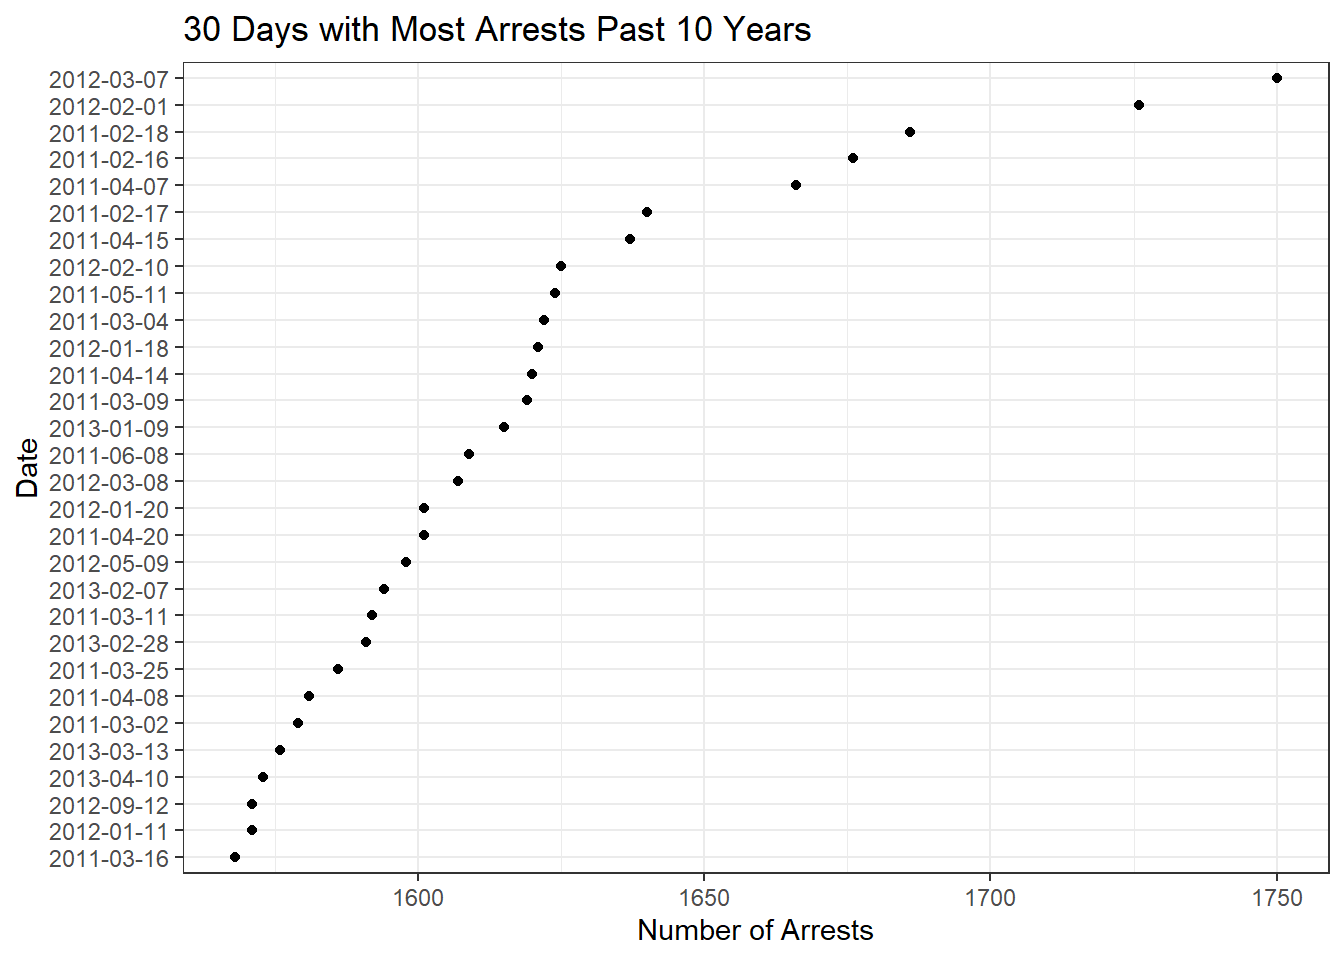
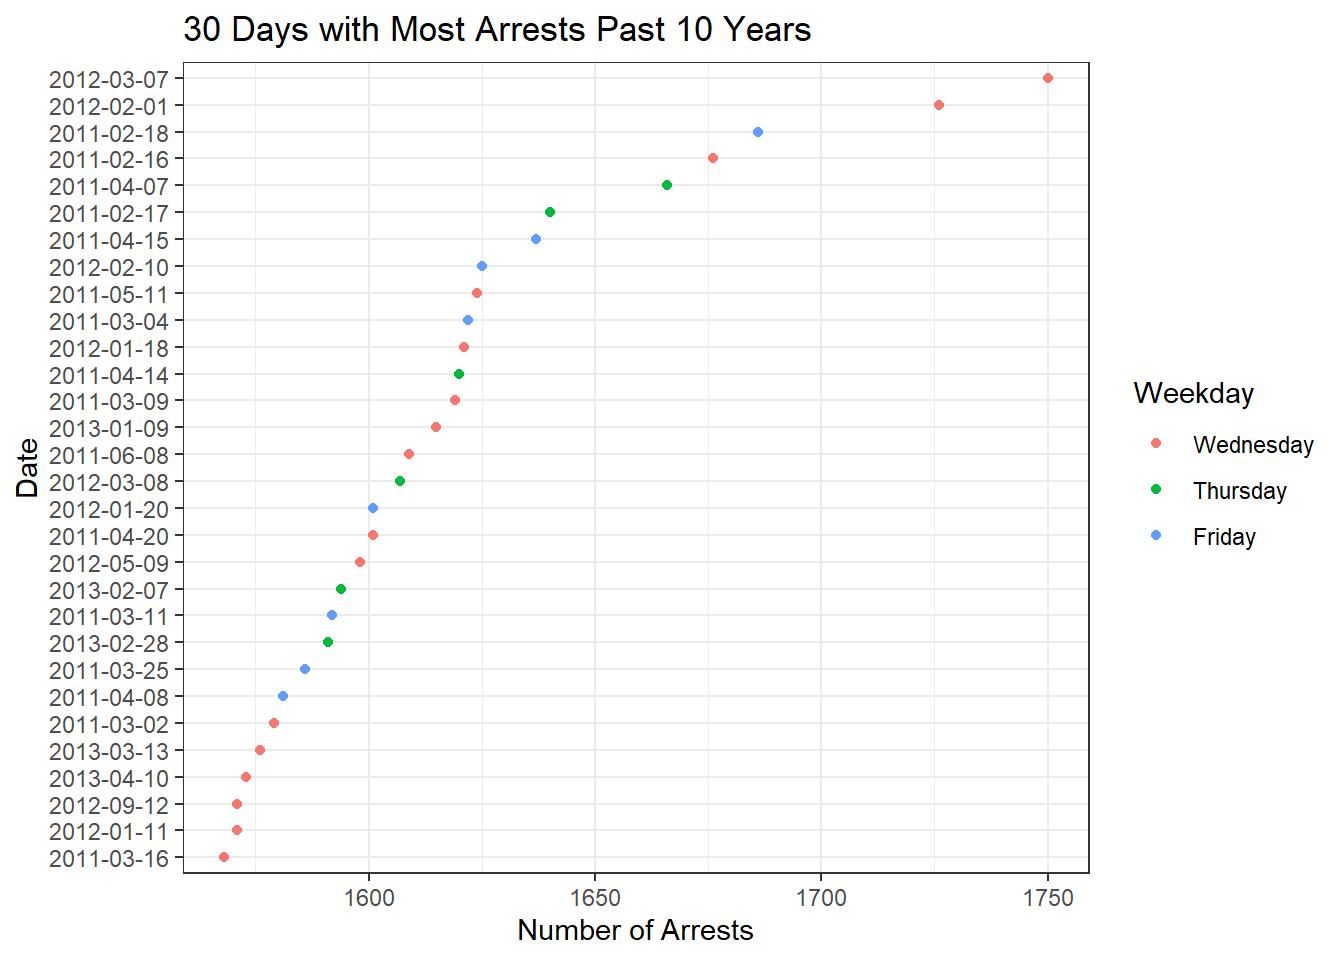
Added weekdays to Cleveland plot, made some notes in discussion sections. Reordered legend in marijuana plot.

diff --git a/docs/results.html b/docs/results.html
@@ -203,10 +203,10 @@ code span.wa { color: #60a0b0; font-weight: bold; font-style: italic; } /* Warni
 <p>One small pattern that we can see from this plot is that the number of arrests seems to drop off a little in December, with December 2014 being the most extreme example. The reasoning for this drop off is unclear, but it could potentially be related to the holiday season. It will be interesting to compare to the number of crimes in December to see if people commit fewer crimes at the end of the year. Another aspect of this plot that we found interesting is that the number of arrests really drops off in 2020 once COVID hit. April, June, and July all had very low arrest totals and this was likely due to the fact that most people were quarantining and not going out much.</p>
 <p>We also wanted to look at individual days to see if there may be a reason certain days had such levels of crime. We created a Cleveland dot plot to look at the 30 days with the highest arrest totals in the past 10 years.</p>
 <p><img src="finalproj_files/figure-html/unnamed-chunk-6-1.png" width="672" /></p>
-<p>From the plot above, we see that the most arrests in one day over the past 10 years was 1750 on March 7th, 2012. There doesn’t seem to be anything in particular that explains why there were so many arrests on this day since it was a random Wednesday in March. This was one of two days with more than 1700 arrests with the other being February 1st, 2012 which also happened to be a Wednesday. It is also interesting to see that all of these days were either in 2011, 2012, or 2013. This makes sense given what the bar plot above showed us in terms of arrests by year, but it is still interesting to see that there were no days recently that made it in the top 30. When looking at the days on this list, we also noticed that most of these days occurred earlier in the year. Only one of the 30 days occurred in the second half of the year which seems a bit odd considering that there wasn’t a huge difference between the number of arrests by month. It would be interesting to see if this pattern continued for the top 50 or 100 days in terms of most arrests, and if there is a potential explanation for why this is the case.</p>
+<p>From the plot above, we see that the most arrests in one day over the past 10 years was 1750 on March 7th, 2012. There doesn’t seem to be anything in particular that explains why there were so many arrests on this day since it was a seemingly ordinary Wednesday in March. This was one of two days with more than 1700 arrests, with the other being February 1st, 2012 which also happened to be a Wednesday. It is also interesting to see that all of these days were either in 2011, 2012, or 2013. This makes sense given what the bar plot above showed us in terms of arrests by year, but it is still interesting to see that there were no days recently that made it in the top 30. When looking at the days on this list, we also noticed that most of these days occurred earlier in the year. Only one of the 30 days occurred in the second half of the year which seems a bit odd considering that there wasn’t a huge difference between the number of arrests by month. It would be interesting to see if this pattern continued for the top 50 or 100 days in terms of most arrests, and if there is a potential explanation for why this is the case. Another interesting point is the weekdays on which the most arrests occurred. As we can see, all of the top days were Wednesdays, Thursdays, and Fridays. It may be argued that Weekends typically see less activity, as they may see fewer people commuting into the city. It is quite curious, though, that Mondays and Tuesdays are under-represented.</p>
 <p>We also want to look at the types of arrests that are occurring in New York City. The three types of arrests according to the data dictionary are felonies, misdemeanors, and violations. A bar plot showing how common each arrest type has been over the past 10 years is below.</p>
 <p><img src="finalproj_files/figure-html/unnamed-chunk-7-1.png" width="672" /></p>
-<p>From the bar plot above, we can see that misdemeanor is the most common type of arrest in our dataset with over 2 million arrests that were related to misdemeanor charges. Felony is the next most common type of arrest with just under 1 million arrests while violations only account for around 200,000 arrests. There is also a small portion of arrests classified as <code>I</code>, but it is not exactly clear from the data dictionary what that stands for. There were also a small amount of arrests that did not have a <code>LAW_CAT_CD</code>, so these were categorized as <code>NA</code> in our plot.</p>
+<p>From the bar plot above, we can see that misdemeanor is the most common type of arrest in our dataset with over 2 million arrests that were related to misdemeanor charges. Felony is the next most common type of arrest with just under 1 million arrests while violations only account for around 200,000 arrests. There is also a small portion of arrests classified as <code>I</code>, which denotes infractions. There were also a small amount of arrests that did not have a <code>LAW_CAT_CD</code>, so these were categorized as <code>NA</code> in our plot.</p>
 <p>Next, we made a parallel coordinates plot to get a better understanding of the arrests made in each borough. We categorized the types of arrests into five categories: Murder, Rape, Aggravated Assault, Motor Vehicle Theft, and Robbery.</p>
 <p><img src="finalproj_files/figure-html/unnamed-chunk-8-1.png" width="672" /></p>
 <p>From the parallel coordinates plot, Richmond County (Staten Island) has had the fewest number of arrests in all of these categories over the past 10 years. This is not surprising since Staten Island is the least populated of the five boroughs. The Bronx has had the most arrests related to murder with over 3500 in the past 10 years, but did not have the most arrests in any of the other four categories. Kings County (Brooklyn) had the most arrests related to rape, aggravated assault, motor vehicle theft, and robbery since 2011. While Kings County had the most arrests in all of these categories, the number of arrests varied significantly. Aggravated assault had almost 50,000 arrests and robbery had around 35,000 while there were just over 5000 arrests for rape and 3500 for motor vehicle theft. Queens County did not have the most or fewest arrests in any category, but almost had as many motor vehicle thefts as Kings County. Finally, New York County had the second fewest arrests for murder, rape, aggravated assault, and motor vehicle theft.</p>
